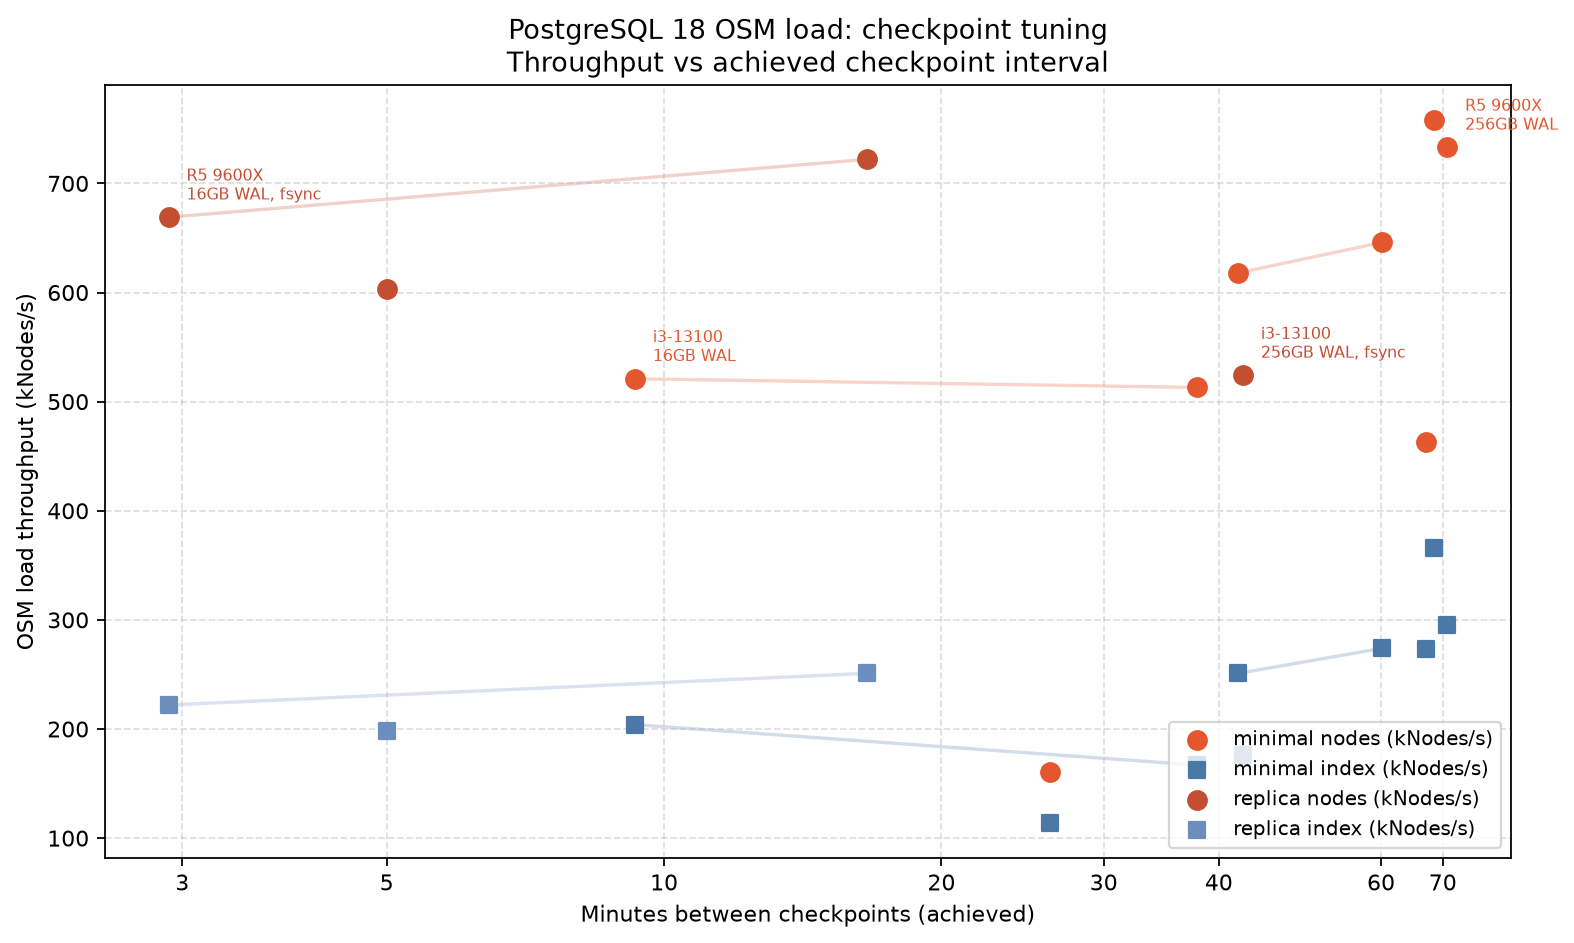
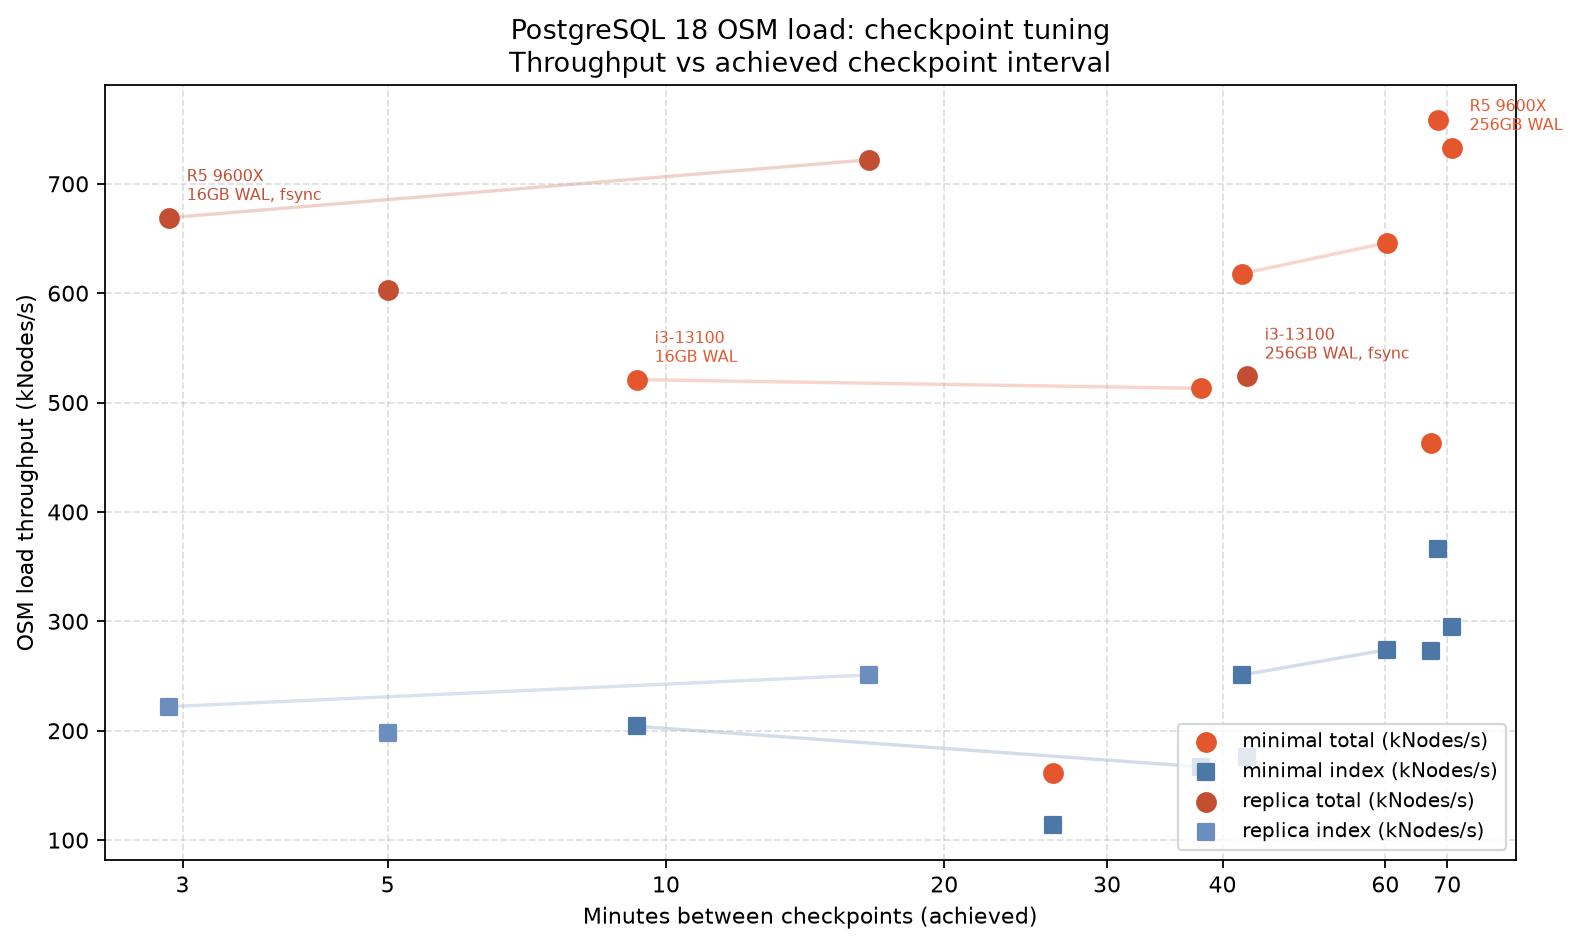
Rename OSM graph series from Nodes to Total load.
Full-planet kNodes/s includes all load phases; index series covers index
build only. Regenerate PG18 charts and update results page copy.

diff --git a/reports/osm-power.py b/reports/osm-power.py
@@ -3,7 +3,7 @@
 Graph OSM power study results from the PG18 static snapshot.
 
 Generates:
-  - Throughput (nodes and index) vs maximum package watts
+  - Throughput (total and index) vs maximum package watts
   - Throughput per watt (efficiency) by CPU
 
 Usage:
@@ -84,7 +84,7 @@ def plot_throughput_vs_power(df: pd.DataFrame, output: Path, show: bool = False)
         marker="o",
         s=70,
         color=NODES_COLOR,
-        label="Nodes (kNodes/s)",
+        label="Total (kNodes/s)",
         zorder=3,
     )
     ax.scatter(
@@ -112,7 +112,7 @@ def plot_throughput_vs_power(df: pd.DataFrame, output: Path, show: bool = False)
     ax.set_ylabel("OSM load throughput (kNodes/s)")
     ax.set_title(
         "PostgreSQL 18 OSM load: throughput vs package power\n"
-        "Vertical bars connect index and node speed at each CPU"
+        "Vertical bars connect index and total speed at each CPU"
     )
     ax.grid(True, linestyle="--", alpha=0.4)
     ax.legend(loc="upper left")
@@ -133,7 +133,7 @@ def plot_efficiency(df: pd.DataFrame, output: Path, show: bool = False) -> None:
     height = 0.35
 
     fig, ax = plt.subplots(figsize=(10, 6))
-    ax.barh([i - height / 2 for i in y], plot_df["nodes_per_watt"], height=height, color=NODES_COLOR, label="Nodes / W")
+    ax.barh([i - height / 2 for i in y], plot_df["nodes_per_watt"], height=height, color=NODES_COLOR, label="Total / W")
     ax.barh([i + height / 2 for i in y], plot_df["index_per_watt"], height=height, color=INDEX_COLOR, label="Index / W")
     ax.set_yticks(list(y))
     ax.set_yticklabels(plot_df["cpu"])

diff --git a/reports/osm-network-speed.py b/reports/osm-network-speed.py
@@ -67,7 +67,7 @@ def plot_connection_speed(df: pd.DataFrame, output: Path, show: bool = False) ->
         marker="o",
         linewidth=2,
         color="#e4572e",
-        label="Nodes (kNodes/s)",
+        label="Total (kNodes/s)",
     )
     ax.plot(
         remote["conn_mbps"],
@@ -82,7 +82,7 @@ def plot_connection_speed(df: pd.DataFrame, output: Path, show: bool = False) ->
     ax.axhline(i5_host["index_kips"], color="#4c78a8", linestyle=":", alpha=0.5)
 
     ax.annotate(
-        f"i5 host-local nodes ({int(i5_host['nodes_kips'])} kNodes/s)",
+        f"i5 host-local total ({int(i5_host['nodes_kips'])} kNodes/s)",
         xy=(remote["conn_mbps"].max(), i5_host["nodes_kips"]),
         xytext=(8, -14),
         textcoords="offset points",
@@ -98,7 +98,7 @@ def plot_connection_speed(df: pd.DataFrame, output: Path, show: bool = False) ->
         color="#4c78a8",
     )
     ax.annotate(
-        f"10Gb/s remote nodes ({int(at_10g['nodes_kips'])} kNodes/s)",
+        f"10Gb/s remote total ({int(at_10g['nodes_kips'])} kNodes/s)",
         xy=(10000, at_10g["nodes_kips"]),
         xytext=(-120, -18),
         textcoords="offset points",

diff --git a/reports/osm-dirty-memory.py b/reports/osm-dirty-memory.py
@@ -78,7 +78,7 @@ def plot_dirty_memory(df: pd.DataFrame, output: Path, show: bool = False) -> Non
         marker="o",
         linewidth=2,
         color="#e4572e",
-        label="Nodes (kNodes/s)",
+        label="Total (kNodes/s)",
     )
     ax.plot(
         df["max_dirty"],
@@ -90,7 +90,7 @@ def plot_dirty_memory(df: pd.DataFrame, output: Path, show: bool = False) -> Non
     )
 
     ax.annotate(
-        f"Default ({default['dirty_label']}) nodes {default['nodes_kips']:.0f}",
+        f"Default ({default['dirty_label']}) total {default['nodes_kips']:.0f}",
         xy=(default["max_dirty"], default["nodes_kips"]),
         xytext=(12, -16),
         textcoords="offset points",
@@ -106,7 +106,7 @@ def plot_dirty_memory(df: pd.DataFrame, output: Path, show: bool = False) -> Non
         color="#4c78a8",
     )
     ax.annotate(
-        f"Smallest limit ({smallest['dirty_label']}) nodes {smallest['nodes_kips']:.0f}",
+        f"Smallest limit ({smallest['dirty_label']}) total {smallest['nodes_kips']:.0f}",
         xy=(smallest["max_dirty"], smallest["nodes_kips"]),
         xytext=(12, -16),
         textcoords="offset points",

diff --git a/reports/osm-checkpoint.py b/reports/osm-checkpoint.py
@@ -111,7 +111,7 @@ def plot_checkpoint(df: pd.DataFrame, output: Path, show: bool = False) -> None:
             marker="o",
             s=70,
             color=WAL_COLORS[wal_level],
-            label=f"{wal_level} nodes (kNodes/s)",
+            label=f"{wal_level} total (kNodes/s)",
             zorder=3,
         )
         ax.scatter(

diff --git a/reports/osm-leaderboard.py b/reports/osm-leaderboard.py
@@ -88,7 +88,7 @@ def plot_leaderboard(df: pd.DataFrame, output: Path, show: bool = False) -> None
         df["nodes_kips"],
         height=bar_height,
         color=NODES_COLOR,
-        label="Nodes (kNodes/s)",
+        label="Total (kNodes/s)",
     )
     ax.barh(
         [i + bar_height / 2 for i in y],

diff --git a/docs/results-summary/pg18/osm-power.md b/docs/results-summary/pg18/osm-power.md
@@ -12,11 +12,11 @@ OSM load throughput vs package power draw.
 
 ![OSM throughput vs maximum package power]({{ '/images/pg18-osm-power.png' | relative_url }})
 
-Each CPU is positioned by **maximum package watts** during the load. Grey vertical bars connect index and node throughput at the same power envelope. Faster AMD parts (R9 9950X, R5 9600X) lead on raw **kNodes/s**; Apple M4 Max draws far less power (**23 W** peak) while giving up top-end speed.
+Each CPU is positioned by **maximum package watts** during the load. Grey vertical bars connect index and total throughput at the same power envelope. Faster AMD parts (R9 9950X, R5 9600X) lead on raw **kNodes/s**; Apple M4 Max draws far less power (**23 W** peak) while giving up top-end speed.
 
 ![OSM throughput per watt]({{ '/images/pg18-osm-power-efficiency.png' | relative_url }})
 
-Throughput per peak watt favors efficiency cores—**Apple M4 Max** leads on both nodes and index, while high-TDP desktop chips move more total data but at lower kNodes/s per watt. Rows marked `est` in the table lacked average-power samples; charts use **max_pkg** because every CPU has it.
+Throughput per peak watt favors efficiency cores—**Apple M4 Max** leads on both total and index load, while high-TDP desktop chips move more data overall but at lower kNodes/s per watt. Rows marked `est` in the table lacked average-power samples; charts use **max_pkg** because every CPU has it.
 
 Regenerate: `python3 reports/osm-power.py` (reads `docs/results-summary/pg18/osm-power.md`).
 

diff --git a/docs/results-summary/pg18/osm-network.md b/docs/results-summary/pg18/osm-network.md
@@ -12,7 +12,7 @@ OSM load speed: server vs remote client.
 
 ![OSM load throughput vs client–server link rate]({{ '/images/pg18-osm-network-speed.png' | relative_url }})
 
-The network study uses an R9 9950X client loading onto an i5-13600K server while throttling the link from 100Mb/s through 10Gb/s. Dotted reference lines show the same server with a host-local client (646 kNodes/s nodes, 274 kNodes/s index). Even at **10Gb/s**, index build on the remote client (**208 kNodes/s**) stays below that i5 host-local baseline; node loading reaches **666 kNodes/s**, in line with the on-server client. Below **2.5Gb/s**, both phases degrade—the 100Mb/s case drops to **90 kNodes/s**.
+The network study uses an R9 9950X client loading onto an i5-13600K server while throttling the link from 100Mb/s through 10Gb/s. Dotted reference lines show the same server with a host-local client (646 kNodes/s total, 274 kNodes/s index). Even at **10Gb/s**, index build on the remote client (**208 kNodes/s**) stays below that i5 host-local baseline; total load reaches **666 kNodes/s**, in line with the on-server client. Below **2.5Gb/s**, both phases degrade—the 100Mb/s case drops to **90 kNodes/s**.
 
 Comparing host-local results across different CPUs (for example R9 vs i5) is not apples-to-apples here; a fair cross-system claim would need matched client/server hardware or bidirectional remote tests in both directions.
 

diff --git a/docs/results-summary/pg18/osm-checkpoint.md b/docs/results-summary/pg18/osm-checkpoint.md
@@ -12,7 +12,7 @@ Checkpoint tuning during OSM load.
 
 ![OSM load throughput vs checkpoint interval]({{ '/images/pg18-osm-checkpoint.png' | relative_url }})
 
-Each point is a host-local OSM load at a different **max_wal_size** / **wal_level** combination. Faint lines connect multiple runs on the same CPU. Throughput rises as checkpoints stretch out—compare **R5 9600X** at **2.9** minutes between checkpoints (**669** kNodes/s nodes) vs **70.8** minutes (**733** kNodes/s). **Replica** WAL (fsync on) needs more frequent checkpoints at the same WAL cap; **minimal** WAL tolerates longer intervals and higher node rates.
+Each point is a host-local OSM load at a different **max_wal_size** / **wal_level** combination. Faint lines connect multiple runs on the same CPU. Throughput rises as checkpoints stretch out—compare **R5 9600X** at **2.9** minutes between checkpoints (**669** kNodes/s total) vs **70.8** minutes (**733** kNodes/s). **Replica** WAL (fsync on) needs more frequent checkpoints at the same WAL cap; **minimal** WAL tolerates longer intervals and higher total load rates.
 
 Regenerate: `python3 reports/osm-checkpoint.py` (reads `docs/results-summary/pg18/osm-checkpoint.md`).
 

diff --git a/docs/results-summary/pg18/osm-leaderboard.md b/docs/results-summary/pg18/osm-leaderboard.md
@@ -12,7 +12,7 @@ Best OSM planet load per CPU/configuration.
 
 ![OSM load leaderboard — best run per server configuration]({{ '/images/pg18-osm-leaderboard.png' | relative_url }})
 
-Each bar pair is the fastest **nodes** and **index** throughput on that server with a **host-local** client (**conn=host** only). The chart deduplicates tuning variants—WAL level, **max_wal_size**, PostgreSQL version—and keeps the best **kNodes/s** per **cpu** / **disk** / memory. **R9 9950X** on SK51 leads at **758** kNodes/s nodes (**PG 18**); **R5 9600X** and **i5-13600K** follow on the same planet load.
+Each bar pair is the fastest **total** and **index** throughput on that server with a **host-local** client (**conn=host** only). The chart deduplicates tuning variants—WAL level, **max_wal_size**, PostgreSQL version—and keeps the best **kNodes/s** per **cpu** / **disk** / memory. **R9 9950X** on SK51 leads at **758** kNodes/s total load (**PG 18**); **R5 9600X** and **i5-13600K** follow on the same planet load.
 
 Regenerate: `python3 reports/osm-leaderboard.py` (reads `docs/results-summary/pg18/osm-leaderboard.md`).
 
